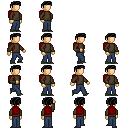
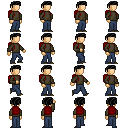
fixed some file names

Changed region(s): [[0.8125, 0.0, 0.9375, 0.25], [0.5625, 0.0, 0.6875, 0.25]]

diff --git a/SomethingsWrong/SomethingsWrong/Loader.ts b/SomethingsWrong/SomethingsWrong/Loader.ts
@@ -11,14 +11,14 @@ var KEYBOARD = {
 
 var IMAGES = 
 {
-    playerImg: "assets/testchar.png",
+    playerImg: "assets/Chars/main.png",
     // general scenes.
     inventoryImg: "assets/GUI/Inventory.GIF",
     pausedMenuImg: "assets/GUI/Paused.GIF",
     itemIconGenericImg: "assets/GUI/Item_icon.GIF",
     buttonImg: "assets/GUI/Button.GIF",
     // scene backgrounds.
-    busStationBackImg: "assets/Scenes/bus-station.png",
+    busStationBackImg: "assets/Scenes/Bus.png",
     jennysHouseOutsideBackImg: "assets/Scenes/jennys-house-outside.png",
     toolshedBackImg: "assets/Scenes/toolshed.png"
 };

diff --git a/SomethingsWrong/SomethingsWrong/player.ts b/SomethingsWrong/SomethingsWrong/player.ts
@@ -19,7 +19,7 @@ class Player extends Entity implements IPlayer {
     private animationType: AnimationType = AnimationType.IDLE;
     
     private spriteWidth : number = 32; // for testchar
-    private spriteHeight : number = 44; // for testchar 
+    private spriteHeight : number = 32; // for testchar 
     
     private imgWidth : number;
     private imgHeight : number; // these should scale off of the canvas/scene (actual drawing size in pixels)
